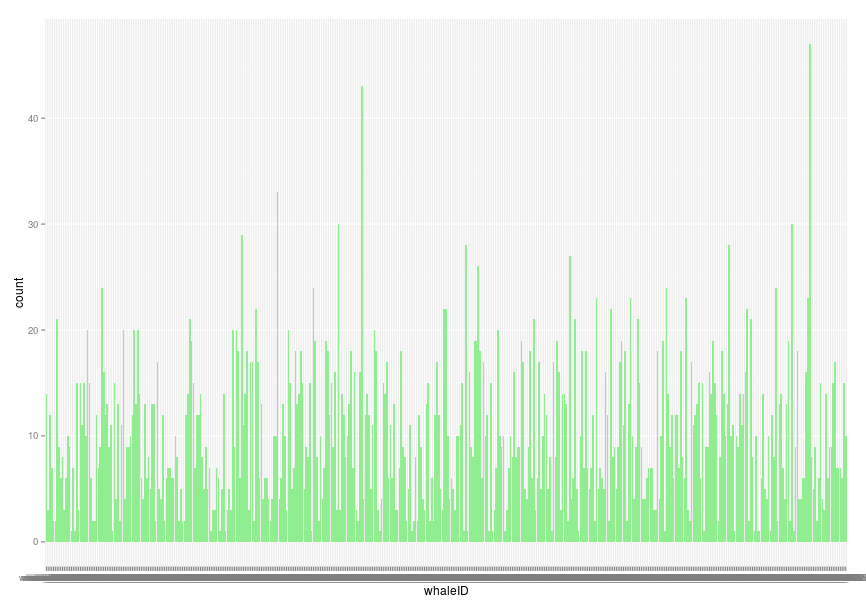
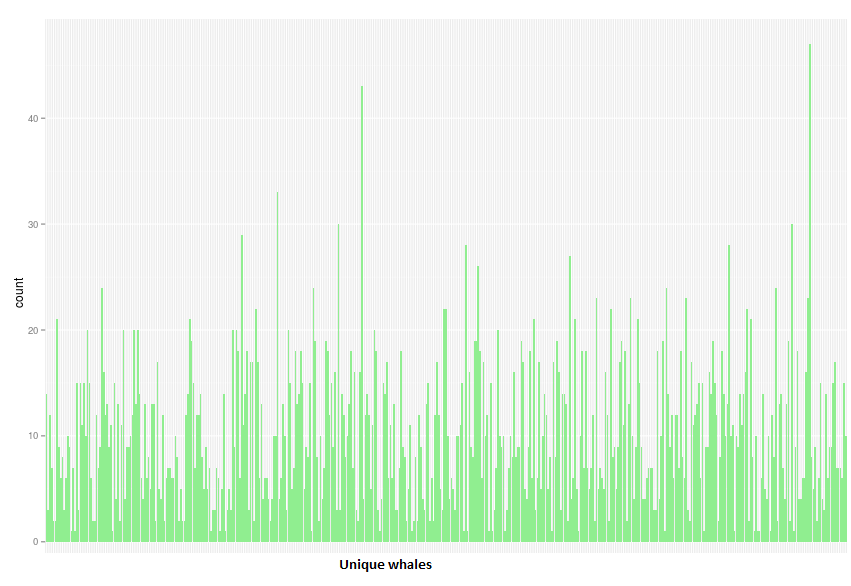
dataset

diff --git a/Project/DiscriptionOfData.tex b/Project/DiscriptionOfData.tex
@@ -1,15 +1,16 @@
 \begin{table}
+	\centering
 	\caption{Files provided by kaggle}
 	\label{table:dataset-files}
-	\begin{tabular}{ l | l }
+	\begin{tabularx}{\linewidth}{|l|l|}
 		\hline
-		File name & Format \\ \hline
-		sample\_submission.csv & .zip (49.44 kb) \\
-		train.csv & .zip (24.12 kb) \\
-		imgs & .zip (8.73 gb) \\
-		w\_7489 & .zip (710.90 kb) \\
-		imgs\_subset & .zip (398.08 mb) \\
-	\end{tabular}
+		File name & Format \\ \hline \hline
+		sample\_submission.csv & .zip (49.44 kb) \\ \hline
+		train.csv & .zip (24.12 kb) \\ \hline
+		imgs & .zip (8.73 gb) \\ \hline
+		w\_7489 & .zip (710.90 kb) \\ \hline
+		imgs\_subset & .zip (398.08 mb) \\ \hline
+	\end{tabularx}
 \end{table}
 
 The dataset is given through the competition from the kaggle website. Table \ref{table:dataset-files} shows the files and format of provided files data. The total size of the dataset is ~9 gb with 11468 different images which varies in dimension from 1000x1500px to 4000x6000px they do however all have the ratio of 1/5.
@@ -26,21 +27,32 @@ The training data contains information of 4544 different images, and 447 differe
 
 \begin{figure}
 	\centering
-	\includegraphics[width=\linewidth]{Images/w_7489.jpg}
+	\includegraphics[width=\linewidth]{Images/w_7489}
 	\caption{Example of whale from the dataset}
 	\label{fig:whale-example}
 \end{figure}
 
-Min: 1
-Max: 47
-Standard deviation: 
+Another important thing to note about the dataset is the distribution of unique whales within the training data, an illustration of this can be seen in Figure \ref{fig:whale-frequency}. From this distribution it is notable that some whales are in a lot more images compared to some of the other whales. The results of the distribution can be seen in Table \ref{table:whale-distribution} where the minimum number of images for a whale is 1 and the maximum is 47 with an average of 10,47 and a standard deviation of 6,8.
 
-Min: 1
-Q1: 5
-Median: 9
-Mean: 10,17
-Q3: 14
-Max: 47
-SD: 6,8
+\begin{table}
+	\centering
+	\caption{Unique distribution of whales in the dataset}
+	\label{table:whale-distribution}
+	\begin{tabularx}{\linewidth}{|l|l|}
+		\hline
+		Min & 1 \\ \hline
+		Q1 & 5 \\ \hline
+		Median & 9 \\ \hline
+		Mean & 10,17 \\ \hline
+		Q3 & 14 \\ \hline
+		Max & 47 \\ \hline
+		SD & 6,8 \\ \hline
+	\end{tabularx}
+\end{table}
 
-On average each whale has 10 occurrences within the training data ( )
+\begin{figure}
+	\centering
+	\includegraphics[width=\linewidth]{Images/FrequencyPlot}
+	\caption{Frequency of unique whales in the training data}
+	\label{fig:whale-frequency}
+\end{figure}	
